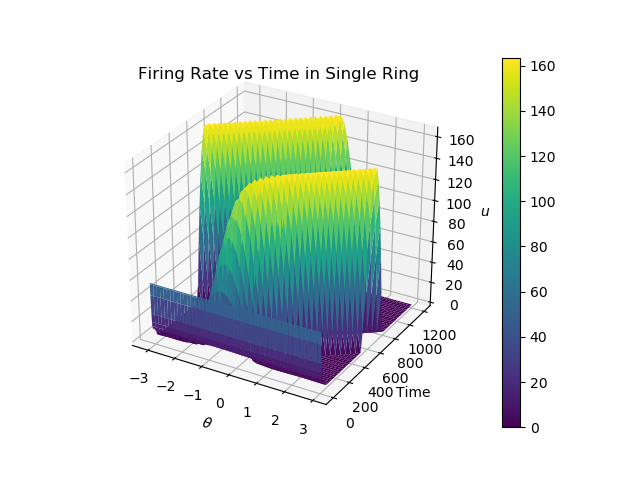
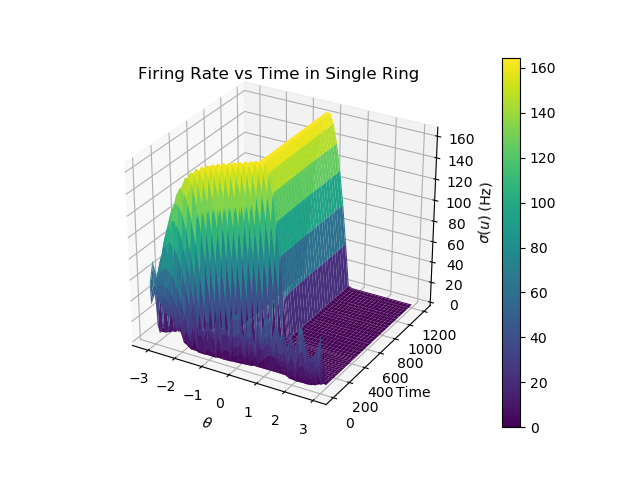
End of quarter commit, quite a bit going on. Need to update stability analyisis. Also need to find a way to update s when solving the CRN.

diff --git a/singleRing/oddOffSingleRing.py b/singleRing/oddOffSingleRing.py
@@ -44,7 +44,7 @@ def weightFunc(x):
     return evenOut, oddOut, totalOut
 
 
-def weightFunc2(x):
+def weightFunc2(x, t):
     '''
         creates weight functions to be used in filling of weight matrix. Identical values as weightFunc, 
         but on individual element not list.
@@ -65,10 +65,13 @@ def weightFunc2(x):
         oddOut = gamma*((1/x)*(b**2)*k*np.cos(b*k*np.pi*x) - (1/(np.pi * x**2))*b*np.sin(b*k*np.pi*x))
     # Another odd option
     #oddOut = gamma*np.sin(x)
+    if t > 400:
+        oddOut = 0
+
     totalOut = evenOut + oddOut
     return totalOut
 
-def weightMat(x):
+def weightMat(x, t):
     W = np.zeros((len(x), len(x)))    
     for i in range(len(x)):
         for j in range(len(x)):
@@ -85,7 +88,7 @@ def weightMat(x):
                 temp = x[i] - x[j] + 2*np.pi
             else:
                 temp = x[i] - x[j] 
-            W[i, j] = weightFunc2(temp)
+            W[i, j] = weightFunc2(temp, t)
     return W
     
 
@@ -113,11 +116,9 @@ def sys(t, u):
 
     thetaSpace = np.linspace(-np.pi, np.pi, N, endpoint=False)
     
-    W = weightMat(thetaSpace)
+    W = weightMat(thetaSpace, t)
     #f = forcingVec(thetaSpace) creates constant forcing
     f = sigma(u)
-    
-    
 
     du = (1/Tau)*(-u + (1/len(u)) * np.matmul(W, f))
     return du
@@ -138,12 +139,6 @@ def initialCondBump(x):
     return IC
 
 
-def initialCondFlat(x):
-    IC = np.zeros(len(x))
-    for i in range(len(x)):
-        IC[i] = 1
-    return IC
-
 
 ## Plotting functions ##  -------------------------------------
 def plot3d(x, y, z):
@@ -156,6 +151,9 @@ def plot3d(x, y, z):
     ax.set_zlabel(r'$\sigma(u)$ (Hz)')
     #ax.view_init(30, 132) #uncomment to see backside
     plt.colorbar(surf)
+    filename = 'SR.png'
+    fig1.savefig(filename)
+    os.system('cp ' + filename + ' /mnt/c/Users/nicho/Pictures/singleRing') # only run with this line uncommented if you are Nick
     plt.show()
 
 def plotWeights(x, y1, y2, y3):
@@ -166,12 +164,14 @@ def plotWeights(x, y1, y2, y3):
     plt.xlabel(r'$\theta$', fontsize = 14)
     plt.ylabel(r'$w(\theta, t)$', fontsize = 14)
     plt.legend()
-    plt.show() 
+    title = 'weight_functions.png'
+    plt.savefig(title)
+    os.system('cp '+ title +  ' /mnt/c/Users/nicho/Pictures/singleRing')
+    #plt.show() 
 
-def matVis(A):
-    plt.matshow(A)
+def matVis(w):
+    plt.matshow(w)
     plt.show()
-   
 ## End Plotting Functions ## -------------------------------------
 
 
@@ -188,8 +188,7 @@ if __name__=="__main__":
     #plotWeights(x, y1, y2, y3)
    
     # create initial condiitions
-    #u0 = initialCondRand(x)
-    u0 = initialCondFlat(x)
+    u0 = initialCondRand(x)
 
     sol = solve_ivp(sys, [0, 1200], u0)
   
@@ -207,13 +206,14 @@ if __name__=="__main__":
      
     plot3d(thetaGrid, timeGrid, firingRate)
     #plot3d(thetaGrid, timeGrid, sol.y)
-    
-    # save firing rate for fluoresc.pyy
-    np.save("CRE/FiringRates", firingRate)
-    np.save("CRE/timesEvaled", sol.t)
 
-#### Examining the weight matrix
-    w = weightMat(x)
-    #matVis(w)
-    eVals, eVecs = np.linalg.eig(w)
-    np.save("eigVals/eVals.npy", eVals)
+
+    # Exploration of eigenvalues of weight matrix
+    w1 = weightMat(x, 1)
+    w2 = weightMat(x, 401)
+    #matVis(w1)
+    #matVis(w2)
+    eVals1, eVecs1 = np.linalg.eig(w1)
+    eVals2, eVecs2 = np.linalg.eig(w2)
+    
+    np.save("eigVals/eVals_oddOff.npy", eVals2)   #matVis(x)

diff --git a/singleRing/oldVer/singleRingNonPeriodic.py b/singleRing/oldVer/singleRingNonPeriodic.py
@@ -11,7 +11,7 @@ def tuningCurve(x):
     A = 2.53
     k = 8.08 
     B = 34.8/np.exp(k)
-    x0 = 0
+    x0 = np.pi/2
     out = A + B*np.exp(k*np.cos(x - x0))
     return out  
 
@@ -72,21 +72,7 @@ def weightMat(x):
     W = np.zeros((len(x), len(x)))    
     for i in range(len(x)):
         for j in range(len(x)):
-            #if ((x[i] - x[j]) >= np.pi): #doesn't work for negatives
-            #    temp = (x[i] - x[j]) % (2*np.pi)
-                #print(temp)
-            #else: 
-            #    temp = x[i] - x[j]
-            #W[i,j] = temp
-            #######################################################
-            if ((x[i] - x[j]) >= np.pi):
-                temp = x[i] - x[j] - 2*np.pi
-            elif (x[i] - x[j] <= -np.pi):
-                temp = x[i] - x[j] + 2*np.pi
-            else:
-                temp = x[i] - x[j] 
-            W[i, j] = weightFunc2(temp)
-            #W[i, j] = temp
+                W[i, j] = weightFunc2(x[i] - x[j])
     return W
     
 
@@ -119,12 +105,7 @@ def sys(t, u):
     f = sigma(u)
 
     du = (1/Tau)*(-u + (1/len(u)) * np.matmul(W, f))
-   
-    #print(du[-1], du[0]) #This does not make the solution periodic. i
-
-    #du[0] = du[-1]
-    #du[1] = du[-2]
-    #du[-1] = du[0]
+    
     return du
 
 
@@ -132,7 +113,7 @@ def initialCondRand(x):
     IC = np.zeros(len(x))
     IC[0] = 1
     for i in range(1, len(x)):
-        IC[i] = IC[i-1]#/i + np.random.rand()
+        IC[i] = IC[i-1]/i + np.random.rand()
     return IC
 
 
@@ -182,18 +163,17 @@ if __name__=="__main__":
 
     # set up theta space
     x = np.linspace(-np.pi, np.pi, N, endpoint=False)
-    #y1, y2, y3 = weightFunc(x)
-    #print(x)
+    y1, y2, y3 = weightFunc(x)
+
 
     # plot weight function
-    #plotWeights(x, y1, y2, y3)
+    plotWeights(x, y1, y2, y3)
    
     # create initial condiitions
     u0 = initialCondRand(x)
 
-    sol = solve_ivp(sys, [0, 1200], u0)
-  
-
+    sol = solve_ivp(sys, [0, 800], u0)
+   
     timeGrid, thetaGrid = np.meshgrid(sol.t, x)
     
     # Recall sol is energy levels, not actual firing rates. 
@@ -206,9 +186,4 @@ if __name__=="__main__":
 
      
     plot3d(thetaGrid, timeGrid, firingRate)
-    #plot3d(thetaGrid, timeGrid, sol.y)
-
-    w = weightMat(x)
-    print(w)
-    plt.matshow(w)
-    plt.show()
+   

diff --git a/singleRing/CRE/fluorescence.py b/singleRing/CRE/fluorescence.py
@@ -1,0 +1,77 @@
+# Purposes: deterministic/ continuous apprpoximation of ODEs derived from chemical reaction network
+# attempts to back out fluorescence given firing rate. (created by rateCreate.py, which is singleRing.py that writes out). 
+import numpy as np
+import matplotlib.pyplot as plt
+from scipy.integrate import solve_ivp
+import os
+
+
+def CRN(t, A):
+    """
+    Defines the differential equations for a coupled chemical reaction network.
+    
+    Arguments: 
+        A : vector of the state variables: Ca^{2+}, CI, CI^* respectively. 
+                A = [x, y, z]
+        t : time
+        p : vector of the parameters:
+                p = [kf, kr, alpha, gamma]
+    """
+    x, y, z = A
+    kf, kr, alpha, gamma = p
+    
+    # define chemical master equation 
+    # this is the RHS of the system
+    
+    # pull out correct s dependent on t.
+    
+
+    du = [alpha*s - gamma*x + kr*z - kf*y*x,
+        kf*y*x - kr*z,
+        kr*z - kf*y*x]
+    return du
+
+def plotThreeLines(x, y1, y2, y3):
+    plt.plot(x, y1, '--', linewidth = 1, label = r'$Ca^{2+}$')
+    plt.plot(x, y2, '--', linewidth = 1, label = r'$CI$')
+    plt.plot(x, y3, linewidth = 2, label = r'$CI^{*}$')
+    plt.title('Dynamics Derived from CRN', fontsize = 18)
+    plt.xlabel(r'$\theta$', fontsize = 14)
+    plt.ylabel(r'$w(\theta, t)$', fontsize = 14)
+    plt.legend()
+    plt.show() 
+
+
+# define initial conditions
+X = 50
+Y = 100
+Z = 100
+
+# define constants/reaction parameters
+kf = 0.9
+kr = 0.1
+alpha = 0.5
+gamma = 0.7
+s = 1/2
+
+# pack up parameters and ICs
+p = [kf, kr, alpha, gamma]
+u0 = [X, Y, Z]
+
+
+# set up time
+tsolve = [0, 1200]
+
+# import s and time, created by singleRing.py
+tEvals = np.load("timesEvaled.npy")
+S = np.load("FiringRates.npy")
+
+
+sol = solve_ivp(CRN, tsolve, u0, t_eval=tEvals)
+
+plotThreeLines(sol.t, sol.y[0,:], sol.y[1,:], sol.y[2,:])
+#print(sol.y)
+#print(tEvals.shape, S.shape)
+#print(tEvals)
+
+print((sol.y).shape)

diff --git a/singleRing/eigVals/eig_val_vis.py b/singleRing/eigVals/eig_val_vis.py
@@ -1,0 +1,62 @@
+# purupose: visualize eigenvalues (plot them) 
+# data is written out to eVals.npy 
+import numpy as np
+import matplotlib.pyplot as plt
+from mpl_toolkits import mplot3d
+from scipy.integrate import solve_ivp
+from scipy import stats 
+import os
+
+
+def scatterFriend(x, y):
+    plt.figure()
+    plt.scatter(x, y)
+    plt.title('Eigenvalues of Matrix W')
+    plt.xlabel('Real')
+    plt.ylabel('Im')
+    #filename = 'MC_eig_vals_visualized.png'
+    #plt.savefig(filename)
+    #os.system('cp ' + filename + ' /mnt/c/Users/nicho/Pictures/doubleRing/many_node/UQ') 
+    plt.show()
+
+
+def plotFriend(x, y):
+    plt.figure()
+    plt.plot(x, y)
+    plt.title('Estimated PDF Evaluated on Real Part of Eigenvalues')
+    plt.xlabel("Real Part of Eigenvalues")
+    plt.ylabel("Density")
+    #filename = 'PDF_eigvals.png'
+    #plt.savefig(filename)
+    #os.system('cp ' + filename + ' /mnt/c/Users/nicho/Pictures/doubleRing/many_node/UQ') 
+    plt.show()
+
+
+if __name__ =="__main__":
+    #eigvals = np.load("eVals_oddOff.npy")
+    eigvals = np.load("eVals.npy")
+    real_part = np.real(eigvals)
+    real_part = np.sort(real_part)
+    im_part = np.imag(eigvals)
+    #print(len(real_part))
+    kernel = stats.gaussian_kde(real_part)
+    
+    print("Mean of real part of maximal eig vals:")
+    print(np.sum(real_part)*(1/len(real_part)))
+
+    print("Covariance of real part of maximal eig vals")
+    print(kernel.covariance)
+
+    # estimate pdf:
+    #print((kernel.evaluate(real_part)*real_part))
+    
+    # evaluate estimated pdf on real part of eig vals.
+    y = kernel.pdf(real_part)
+
+    # check that it is pretty close to integrating to 1. 
+    print(kernel.integrate_box(-20, 20))
+    
+    scatterFriend(real_part, im_part)
+    plotFriend(real_part, y)
+
+
